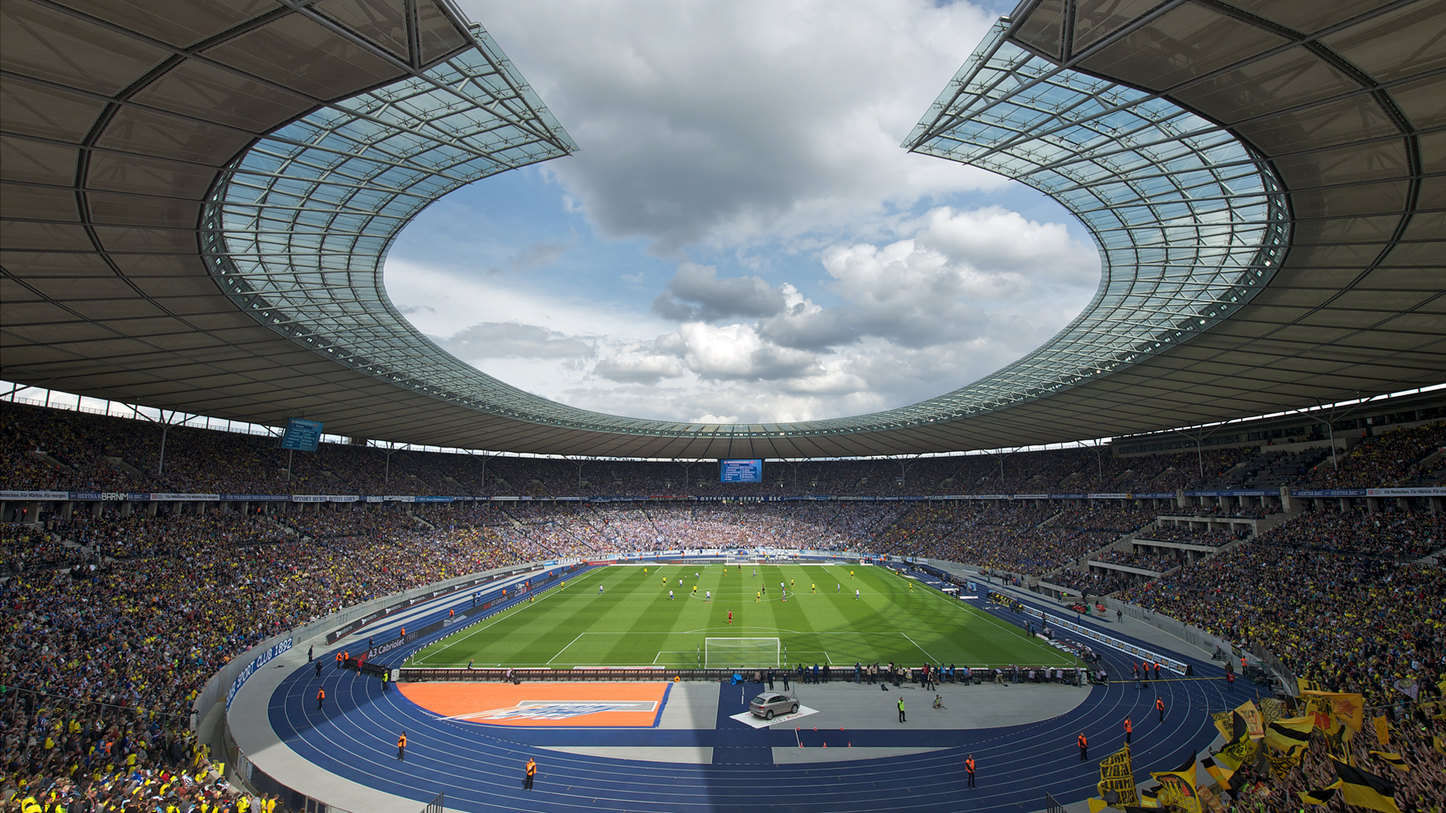
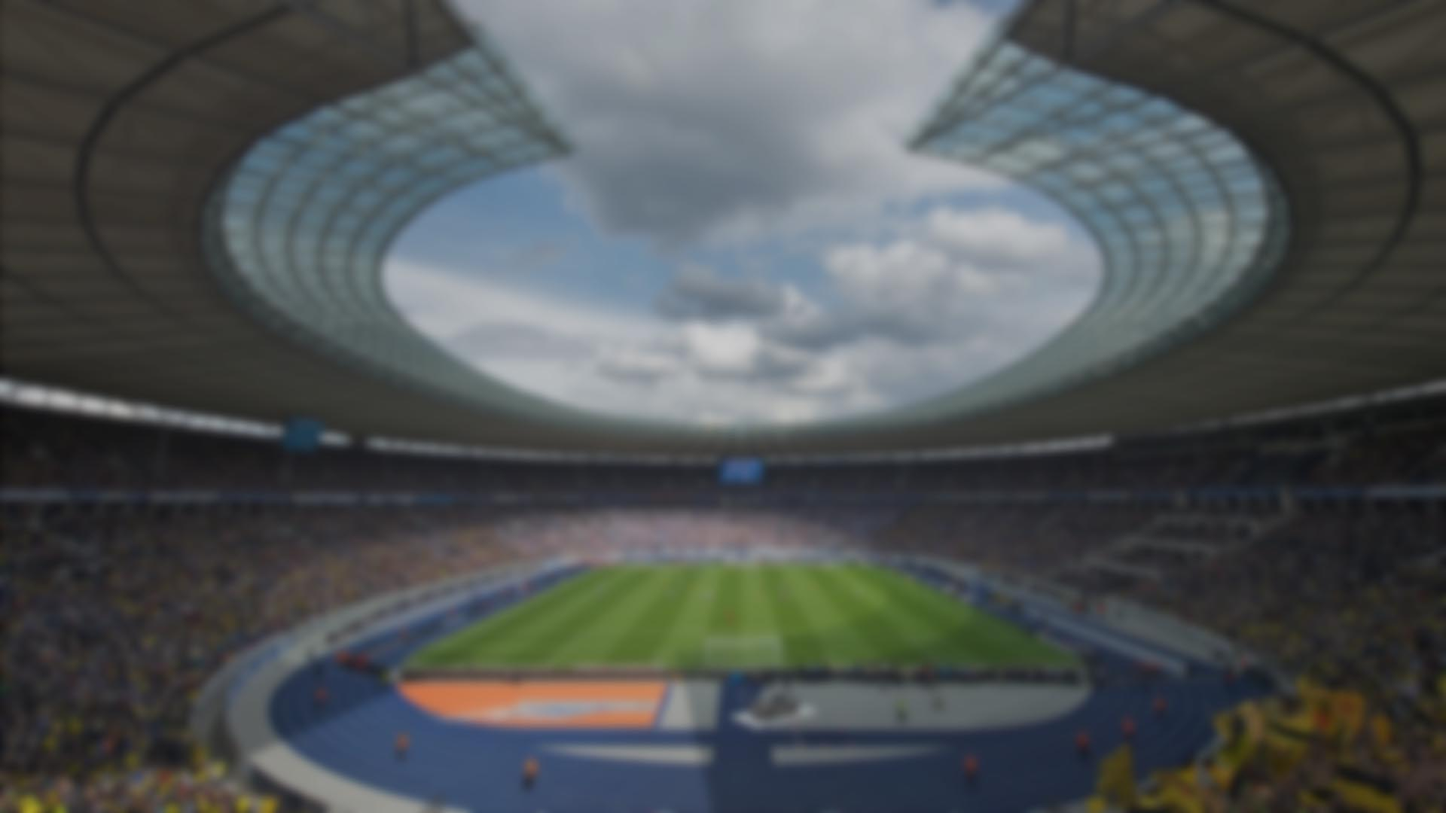
Modified Background, removed unneccecary css and

diff --git a/public/css/style.css b/public/css/style.css
@@ -3,9 +3,9 @@
  Functional Styles (Required)
 ---------------------------------*/
 
-.header { position: relative;}
+.header { position: relative; }
 #toggle, .toggle { display: none; }
-.menu > li { list-style: none; float:left;	}
+.menu > li { list-style: none; float:left; }
 
 .clearfix:before, .clearfix:after { display: table; content: ""; }
 .clearfix:after { clear: both; }
@@ -243,17 +243,16 @@ padding: 0;
  
 body {
     font: 14px "Lucida Grande", Helvetica, Arial, sans-serif;
-    color: black;
+    color: white;
     background-image: url(/static/img/background.jpg);
     background-repeat: space;
-    background-position: left top;
+    background-position: center top;
 }
 
 a {
     color: black;
     text-decoration: none;
 }
-
 
 .playerColumn {
     height: 770px;
@@ -271,7 +270,6 @@ a {
     border-color: transparent;
     border-width: 5px;
     border-style: solid;
-    border-color: transparent;
     text-align: center;
     font-size: 20px;
 }
@@ -288,8 +286,7 @@ a {
 
 .detailsLeft , .detailsRight {
     float: left;
-    width: 30%;
-    background: rgba(255,255,255,0.3);
+    width: 29%;
     border-right-style: solid;
     border-right-width: 3px;
     border-right-color: white;
@@ -300,27 +297,18 @@ a {
     height: 800px;
     text-align: left;
     font-weight: bold;
+    padding: 1em;
 }
 
-
 .rightColumn {
-    background: rgba(255,255,255,0.2);;
     height: 800px;
     overflow: auto;
     width: 20%;
-    border-color: #007FFF;
-    border-width: 5px;
-    border-style: solid;
     float: right;
 }
 
-
-
 .login {
-    height: 30%;
-    border-bottom-style: solid;
-    border-bottom-width: 3px;
-    border-bottom-color: white;
+    height: 15%;
 }
 
 #dropContainer {
@@ -359,14 +347,14 @@ a {
     box-shadow: 0px 3px 0px rgba(219,31,5,1), 0px 3px 6px rgba(0,0,0,.9);
     position: relative;
     top: 2%;
+}
 
-}/*Searchbar in Header*/
+/*Searchbar in Header*/
 .searchAndTwitter {
     padding: 0px 10px;
 }
 
 .logo {
-
 }
 
 .leftColumn {
@@ -383,6 +371,5 @@ div#impwrap{
 
 p.impressum {
     padding-bottom: 1em;
-
 }
 
